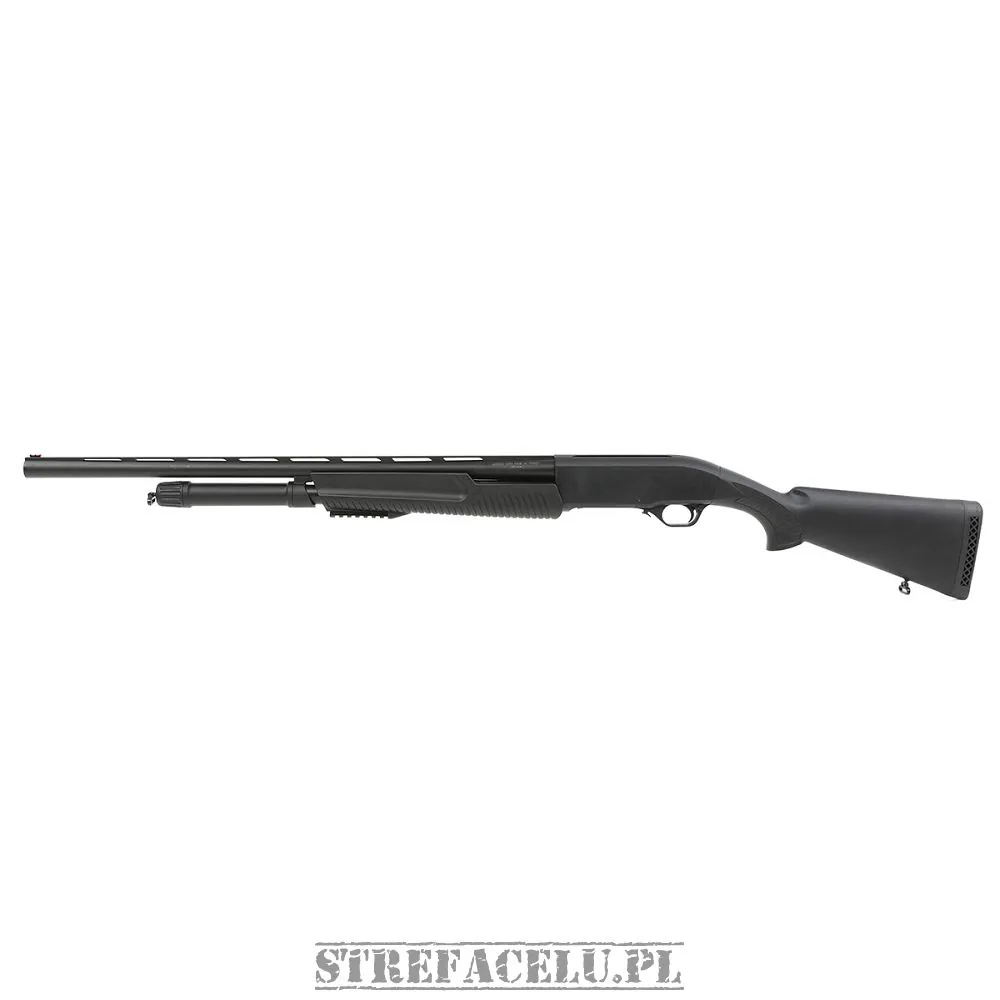
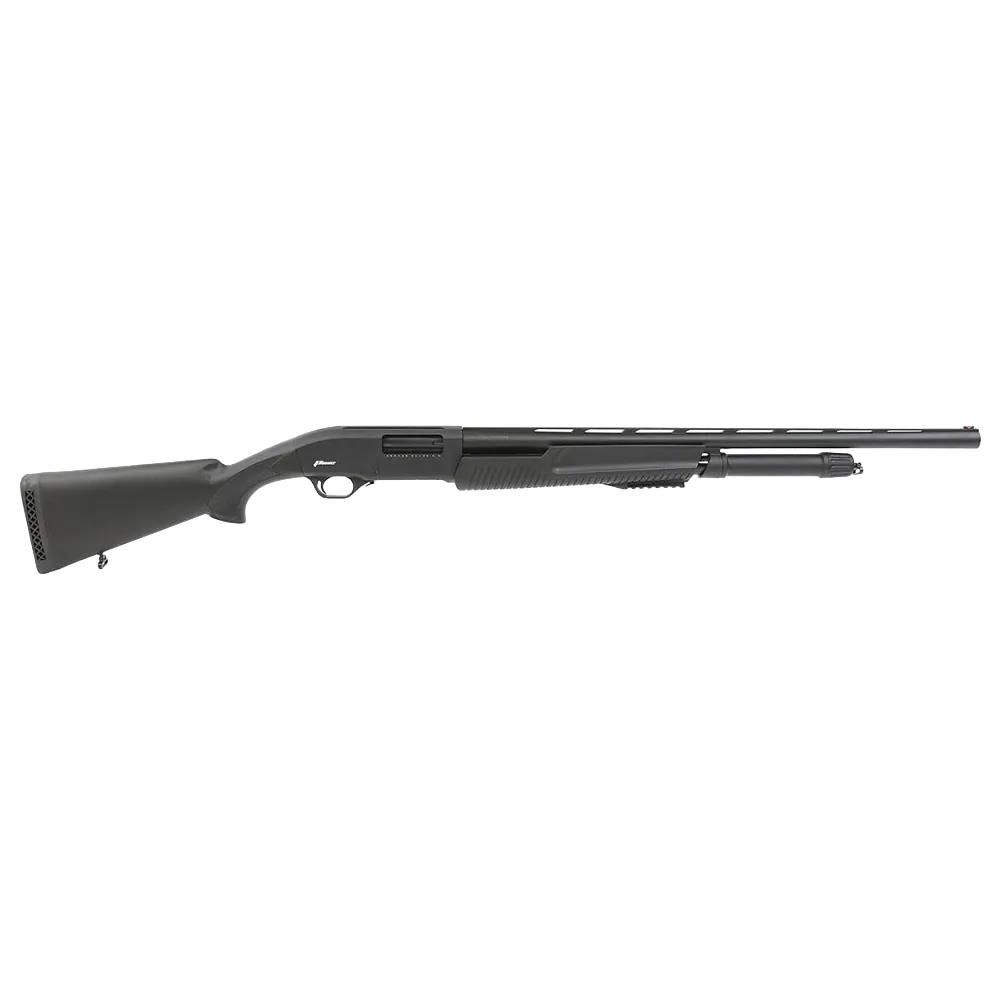
feat(fotos): 16 armas más — SIG, IWI y Armsan (de 139 a 155 de 253)
Entran las cinco Armsan P612, que `traer.py` había degradado por medir el lado
corto de su original (2000x650): el que manda es el lienzo final, y las cinco
salen a 1200 px. Ese criterio de descarga es conservador de más con armas
largas y conviene recordarlo antes de tirar una foto buena.

Fuera cuatro: la Jericho II, la P320 Carry y la X-Five con el guardamonte
relleno de fondo —la métrica nueva las caza a las tres—, y la P320 Full Size
por quedarse en 865 px.

Dos armas se quedan sin foto y no es por falta de buscar: la Jericho F de
acero (la única foto grande que existe trae la boca del cañón cortada por el
borde y el CDN la devuelve con bandas) y la ARAD 7 DMR (iwi.net responde 403 a
cualquier imagen cuyo nombre lleve «DMR», incluso tras resolver el reto JS).

Anotado para no volver a tropezar: sigsauer.com devuelve un JPEG de 265x265
con HTTP 200 para CUALQUIER ruta inventada — es el «sin imagen» de Magento.
Los 265 px que el censo traía para cinco SIG no eran fotos chicas: eran eso.

Changed region(s): [[0.0, 0.403, 0.992, 0.62], [0.31, 0.93, 0.682, 0.992]]

diff --git a/src/data/data.js b/src/data/data.js
@@ -187,7 +187,7 @@ window.DB = [
     "Evolución de la LCP con capacidad duplicada manteniendo dimensiones subcompactas. Excelente opción de defensa personal para portación discreta."),
 
   mk(7, "SIG Sauer P365", "SIG Sauer", "pistola", "EE.UU.", ".380 ACP", "10+1", "498g", "147mm", "Semi-auto, striker-fired micro", 2018, "dcam", "11421.02", "PISTOLA CAL .380 SIG SAUER P365 NIT",
-    "imagenes/007_SIG_Sauer_P365.webp",
+    "imagenes/007_SIG_Sauer_P365.webp?v=2",
     "Revolucionó el segmento de subcompactas. Acabado nitrón resistente a la corrosión. Versión .380 disponible en México para civiles."),
 
   mk(8, "CZ P-07", "Ceska Zbrojovka", "pistola", "Rep. Checa", ".380 ACP", "15+1", "800g", "185mm", "Semi-auto, DA/SA con Omega trigger", 2012, "dcam", "11436", "PISTOLA CAL .380 CESKA CZ P-07",
@@ -237,7 +237,7 @@ window.DB = [
     "Pistola .22 LR de competición americana. Cañón fijo, gatillo de competencia. Una de las pistolas .22 más vendidas del mundo para tiro deportivo."),
 
   mk(18, "SIG Sauer P322", "SIG Sauer", "pistola", "EE.UU.", ".22 LR", "20+1", "478g", "188mm", "Semi-auto, blow-back", 2022, "dcam", "14443.75", "PISTOLA 22 LR SIG SAUER P322 NIT NEG",
-    "imagenes/017_SIG_Sauer_P322.webp",
+    "imagenes/017_SIG_Sauer_P322.webp?v=2",
     "Pistola .22 LR moderna de SIG con capacidad de 20 cartuchos. Acabado nitrón, óptica-ready. Excelente herramienta de entrenamiento y deporte."),
 
   // ═══════════════════════════════════════════════════════════
@@ -347,7 +347,7 @@ window.DB = [
     "Versión de competición de la P320. Cañón extendido, mira fibra óptica. Calibre 9mm: restringido."),
 
   mk(44, "SIG P320 Coyote", "SIG Sauer", "pistola", "EE.UU.", "9mm Parabellum", "17+1", "830g", "203mm", "Semi-auto, striker-fired", 2017, "ejercito", "17448.64", "PISTOLA 9MM COYOTE SIG SAUER P320",
-    "imagenes/090_SIG_P320_Coyote.webp",
+    "imagenes/090_SIG_P320_Coyote.webp?v=2",
     "Variante color coyote tan, similar a la M17 militar. Calibre 9mm: restringido a Fuerzas Armadas."),
 
   mk(45, "Beretta PX4 Storm 9mm", "Beretta", "pistola", "Italia", "9mm Parabellum", "17+1", "785g", "192mm", "Semi-auto, DA/SA cañón rotativo", 2004, "ejercito", "10549.59", "PISTOLA CAL 9 MM BERETTA M PX4",
@@ -479,7 +479,7 @@ window.DB = [
     "Línea de carabinas civiles AR-15 en EE.UU. En México, calibre 5.56: exclusivo de Fuerzas Armadas."),
 
   mk(72, "SIG 516", "SIG Sauer", "carabina", "EE.UU.", "5.56x45mm", "30", "3500g", "780mm", "Semi-auto, pistón corto", 2010, "ejercito", "40201.06", "RIFLE 5.56X45 SIG SAUER M SIG 516",
-    "imagenes/102_SIG_516.webp",
+    "imagenes/102_SIG_516.webp?v=2",
     "Sistema de pistón corto en plataforma AR. Mayor confiabilidad. Exclusivo de Fuerzas Armadas."),
 
   mk(73, "Rock River Arms LAR-15", "Rock River Arms", "carabina", "EE.UU.", "5.56x45mm", "30", "3000g", "730mm", "Semi-auto, AR-15 corto", 2012, "ejercito", "34957.21", "FUSIL 5.56X45 ROCK RIVER ARMS C 10.5\"",
@@ -487,11 +487,11 @@ window.DB = [
     "Versión corta tipo PDW para operaciones tácticas. Restringido a Fuerzas Armadas."),
 
   mk(74, "IWI Galil ACE 52", "IWI", "carabina", "Israel", "7.62x51mm", "20", "4000g", "950mm", "Semi-auto, basado en AK", 2010, "ejercito", "34957.21", "FUSIL CAL 7.62X51 mm GALIL IWI ACE 52",
-    "imagenes/104_IWI_Galil_ACE_52.webp",
+    "imagenes/104_IWI_Galil_ACE_52.webp?v=2",
     "Evolución moderna del Galil israelí en 7.62 OTAN. Robustez probada en combate. Exclusivo militar."),
 
   mk(75, "IWI Galil ACE 31", "IWI", "carabina", "Israel", "7.62x39mm", "30", "3500g", "780mm", "Semi-auto, basado en AK", 2014, "ejercito", "39023.46", "FUSIL 7.62X39 mm IWI M GALIL ACE 31",
-    "imagenes/105_IWI_Galil_ACE_31.webp",
+    "imagenes/105_IWI_Galil_ACE_31.webp?v=2",
     "Galil ACE en calibre del bloque oriental 7.62x39. Compatible con cargadores AK. Uso exclusivo militar."),
 
   mk(76, "IWI X95", "IWI", "carabina", "Israel", "5.56x45mm", "30", "3300g", "590mm", "Semi-auto, bullpup", 2009, "ejercito", "47966.28", "FUSIL 5.56X45 mm IWI MOD X95",
@@ -533,7 +533,7 @@ window.DB = [
     "Subametralladora israelí compacta. Exclusiva de Fuerzas Armadas."),
 
   mk(84, "IWI UZI Pro", "IWI", "carabina", "Israel", "9mm Parabellum", "20", "2300g", "470mm", "Subametralladora, blow-back compacta", 2010, "ejercito", "16634.92", "SUBAMETRALLADORA 9X19 I.W.I UZI PRO",
-    "imagenes/111_IWI_UZI_Pro.webp",
+    "imagenes/111_IWI_UZI_Pro.webp?v=2",
     "Versión moderna del histórico UZI. Compacta y confiable. Exclusiva militar."),
 
   // ═══════════════════════════════════════════════════════════
@@ -564,7 +564,7 @@ window.DB = [
     "Gama alta Senax DL de AYA. Bloques laterales grabados, madera selecta. Pieza de colección y exhibición."),
 
   mk(91, "Armsan P612 ASN", "Armsan", "escopeta", "Turquía", "12 GA", "5+1", "2900g", "1230mm", "Acción de bomba (corredera)", 2013, "dcam", "9620.22", "ESCOPETA CAL 12 ARMSAN P612 ASN",
-    "imagenes/048_Armsan_P612_ASN.webp",
+    "imagenes/048_Armsan_P612_ASN.webp?v=2",
     "Escopeta de bomba (corredera) turca Armsan P612 calibre 12, con culata y guardamano sintéticos negros («A.S.N.») y cañón de 71 cm. Económica y robusta para caza y tiro. Adquisición civil."),
 
   mk(92, "Armsan P612 AC", "Armsan", "escopeta", "Turquía", "12 GA", "5+1", "2900g", "1230mm", "Acción de bomba (corredera)", 2013, "dcam", "10906.65", "ESCOPETA CAL 12 ARMSAN P612 AC",
@@ -649,13 +649,13 @@ window.DB = [
 
   // ── ARMAS OTCA (Monterrey) — inventario 26-sep-2025, no presentes en el catálogo DCAM ──
   mk(112, "IWI Galil ACE 21N", "IWI", "carabina", "Israel", "5.56x45mm", "30+1", "3.3 kg", "845 mm", "Selectivo, pistón de gas", 2012, "ejercito", "36705.07", "FUSIL DE ASALTO CALIBRE 5.56 x 45 mm. (.223\") MARCA I.W.I. MODELO GALIL ACE 21N",
-    "",
+    "imagenes/IWI_Galil_ACE_21N.webp",
     "Versión compacta del fusil Galil ACE israelí en 5.56 OTAN, con cañón corto. Plataforma de pistón de gas robusta derivada del AK; de uso exclusivo de las Fuerzas Armadas."),
   mk(113, "CZ Scorpion EVO 3 A1", "Česká Zbrojovka", "carabina", "Rep. Checa", "9mm Parabellum", "20+1", "1.9 kg", "625 mm", "Blowback, selectivo", 2009, "ejercito", "28939.58", "SUBAMETRALLADORA AUTOMATICA CALIBRE 9X19 MM MARCA CESKA ZBROJOVKA MODELO CZ SCORPION EVO 3 A1",
     "imagenes/CZ_Scorpion_EVO_3_A1.webp",
     "Subfusil checo de 9 mm con armazón de polímero y disparo selectivo, sucesor del Škorpion. Cañón de 208 mm y culata plegable; uso exclusivo de las Fuerzas Armadas."),
   mk(114, "SIG MPX", "SIG Sauer", "carabina", "EE.UU.", "9mm Parabellum", "30+1", "2.7 kg", "660 mm", "Gas, cerrojo cerrado, selectivo", 2015, "ejercito", "48602.46", "SUBAMETRALLADORA CALIBRE 9 X 19 mm MARCA SIG SAUER MODELO SIG MPX, STANDARD",
-    "",
+    "imagenes/SIG_MPX.webp",
     "Subfusil de SIG Sauer con sistema de gas de pistón corto y cerrojo cerrado, inusual para un arma de 9 mm, lo que mejora seguridad y suavidad. Uso exclusivo de las Fuerzas Armadas."),
   mk(115, "Benelli Vinci", "Benelli", "escopeta", "Italia", "12 GA", "3+1", "3.0 kg", "1257 mm", "Semi-auto inercial", 2009, "dcam", "61127.13", "ESCOPETA SEMIAUTOMÁTICA CAL. 12 G.A. MARCA BENELLI MODELO VINCI, SUPERSPORT, CAÑÓN DE 28\", SISTEMA COMFORTECH",
     "imagenes/Benelli_Vinci.webp",
@@ -771,7 +771,7 @@ window.DB = [
     "imagenes/Winchester_SXR2_Pump.webp",
     "Rifle de cacería de acción de bomba en .308 Win, de ciclo rápido. Adquisición civil para caza."),
   mk(150, "IWI US Z-15", "IWI", "carabina", "EE.UU.", "5.56x45mm", "30+1", "3.0 kg", "830mm", "Semi-auto, directo de gas (AR-15)", 2021, "ejercito", "28714.85", "FUSIL CAL .5.56 IWI US Z-15",
-    "",
+    "imagenes/IWI_US_Z-15.webp",
     "Carabina AR-15 fabricada por IWI US en 5.56 OTAN, con riel y miras auxiliares. Uso restringido a fuerzas armadas."),
   mk(151, "Ruger 10/22", "Ruger", "rifle", "EE.UU.", ".22 LR", "10+1", "2.3 kg", "940mm", "Semi-auto, blowback", 1964, "dcam", "14439.90", "RIFLE RUGER 10/22 CAL .22",
     "",
@@ -972,19 +972,19 @@ window.DB = [
     "imagenes/CZ_600_American_.243.webp",
     "Rifle de cerrojo CZ 600 American en .243 Win, con culata de madera de estilo americano, cargador de 5 cartuchos y juego de anillos. Adquisición civil."),
   mk(211, "Armsan Phenoma", "Armsan", "escopeta", "Turquía", "12 GA", "5+1", "3.1 kg", "1230mm", "Semi-auto", 2015, "dcam", "15101.51", "ESCOPETA CAL. 12 ARMSAN PHENOMA A.S.N.",
-    "",
+    "imagenes/Armsan_Phenoma.webp",
     "Escopeta semiautomática calibre 12 de un cañón de 71 cm con cinta ventilada, en acabados madera negro, sintético negro y camuflaje. Fabricada en Turquía por Armsan Silah. Adquisición civil."),
   mk(212, "Armsan A612", "Armsan", "escopeta", "Turquía", "12 GA", "5+1", "3.0 kg", "1230mm", "Semi-auto, sistema de gas", 2015, "dcam", "13283.74", "ESCOPETA CAL. 12 ARMSAN P612 A.C.",
-    "",
+    "imagenes/Armsan_A612.webp",
     "Escopeta semiautomática calibre 12 de la serie A600 de Armsan, con cañón de 71 cm, cinta ventilada y acabado madera. Adquisición civil."),
   mk(213, "Armsan A620", "Armsan", "escopeta", "Turquía", "20 GA", "5+1", "2.8 kg", "1230mm", "Semi-auto, sistema de gas", 2015, "dcam", "13283.74", "ESCO.SEMI.CAL.20 ARMSAN A620.CA.71MM",
-    "",
+    "imagenes/Armsan_A620.webp",
     "Escopeta semiautomática calibre 20 de la serie A600 de Armsan, con cañón de 71 cm, cinta ventilada y acabado madera. Más ligera y de menor retroceso que la de calibre 12. Adquisición civil."),
   mk(214, "Armsan A616", "Armsan", "escopeta", "Turquía", "16 GA", "5+1", "2.9 kg", "1230mm", "Semi-auto, sistema de gas", 2018, "dcam", "14737.96", "ESCOPETA CAL. 16 ARMSAN P616 A.C.",
-    "",
+    "imagenes/Armsan_A616.webp",
     "Escopeta semiautomática calibre 16 —un calibre poco común en México— de la serie A600 de Armsan, con cañón de 71 cm, cinta ventilada y acabado madera. Adquisición civil."),
   mk(215, "Armsan A636", "Armsan", "escopeta", "Turquía", ".410 Bore", "5+1", "2.7 kg", "1180mm", "Semi-auto, sistema de gas", 2018, "dcam", "14542.2", "ESCO.SEM.A.U. CAL. ARM.A636 CAL. 410 A.C",
-    "",
+    "imagenes/Armsan_A636.webp",
     "Escopeta semiautomática calibre .410 de la serie A600 de Armsan, con cañón de 66 cm, cinta ventilada y acabado madera. Retroceso suave para iniciación y caza menor. Adquisición civil."),
   mk(216, "Trejo 2GT", "Trejo", "pistola", "México", ".22 LR", "11", "800g", "190mm", "Semi-auto, acción simple", 2017, "dcam", "12369.47", "PISTOLA CAL. 22\" L.R. TREJO MOD. 2GT",
     "",
